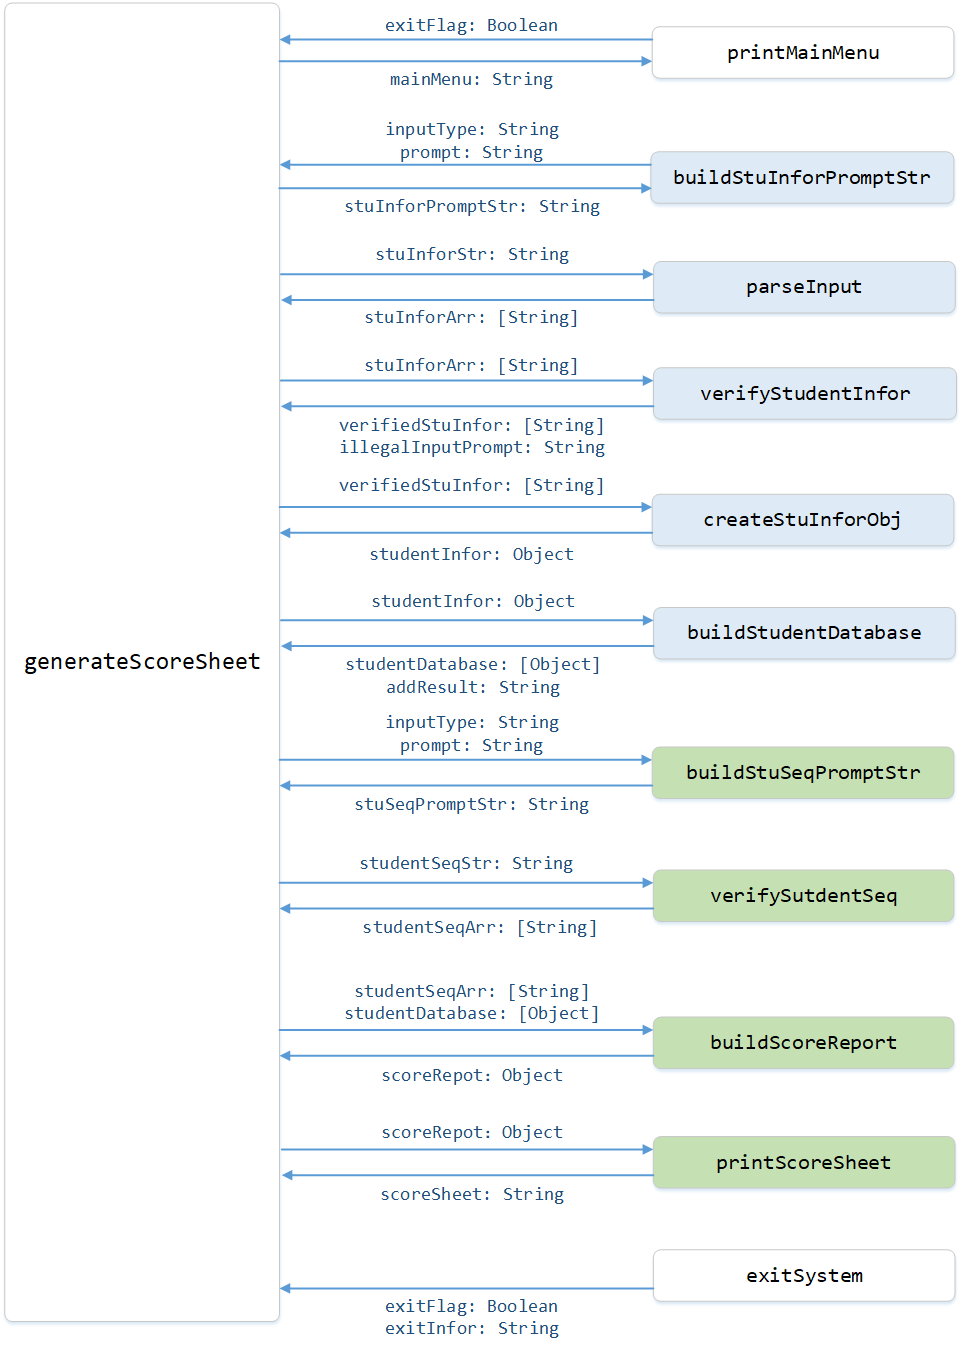
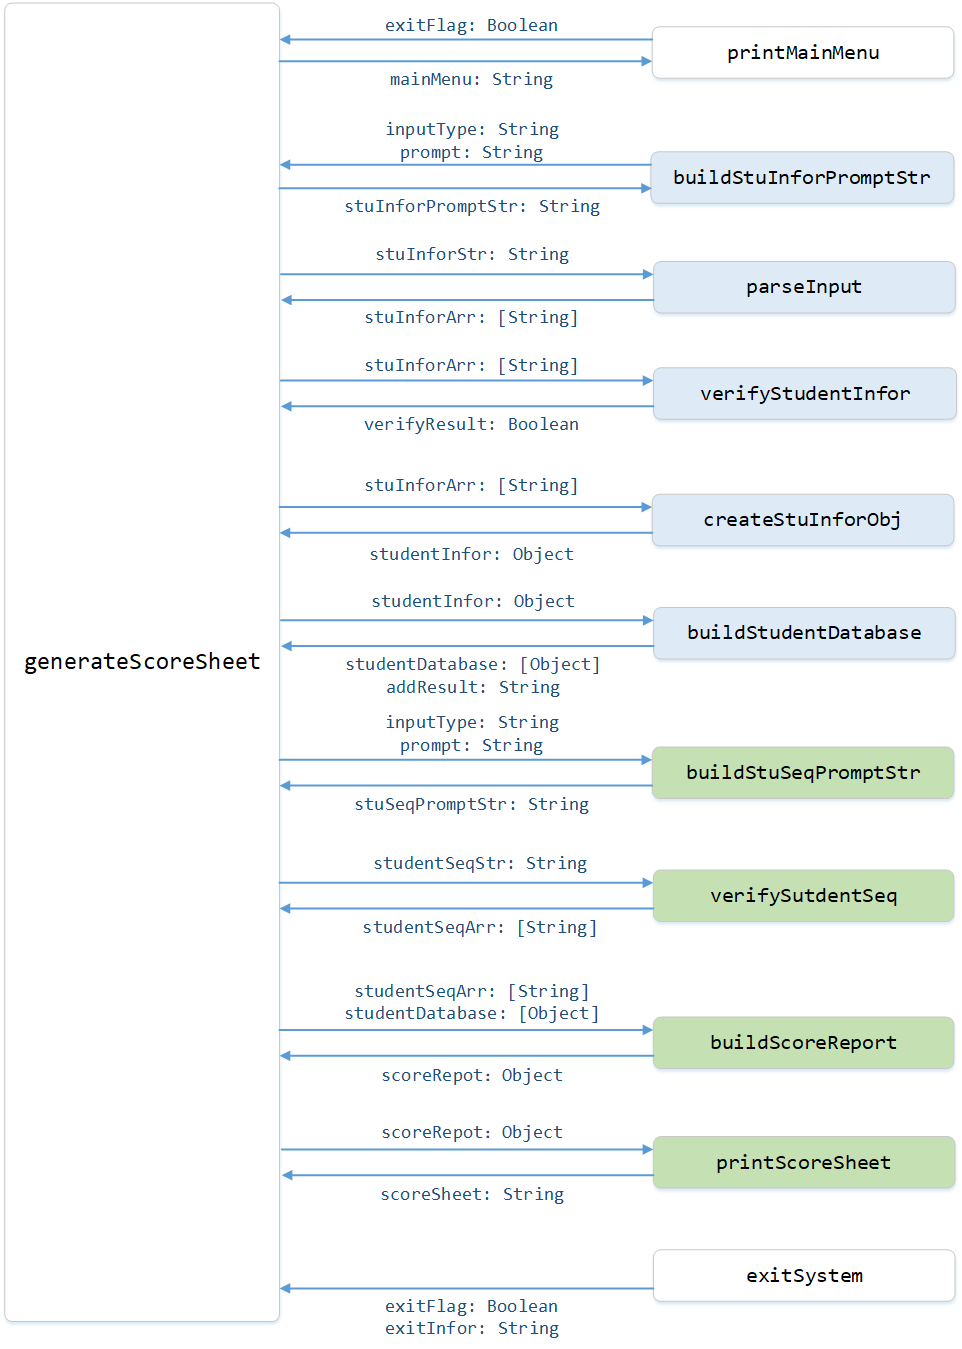
Modify the output of verifyStudentInfor

Changed region(s): [[0.343, 0.3113, 0.6237, 0.3736], [0.3742, 0.6227, 0.6237, 0.6538]]

diff --git a/spec/add_student_infor_spec.js b/spec/add_student_infor_spec.js
@@ -31,43 +31,50 @@ describe("AddStudentInfor", () => {
     const INPUT = "张三，20160101";
     const INFOR_ARR = addStudentInfor.parseInput(INPUT);
     const RESULT = addStudentInfor.verifyStudentInfor(INFOR_ARR);
-    expect(RESULT).toEqual(["张三", "20160101"]);
+    expect(RESULT).toEqual(true);
   });
 
   it("should have a method to verify input", () => {
     const INPUT = "张三，20160101，数学：75，语文：95，英语：80，编程：80";
     const INFOR_ARR = addStudentInfor.parseInput(INPUT);
     const RESULT = addStudentInfor.verifyStudentInfor(INFOR_ARR);
-    expect(RESULT).toEqual(["张三", "20160101", ["数学", "75"], ["语文", "95"], ["英语", "80"], ["编程", "80"]]);
+    expect(RESULT).toEqual(true);
   });
 
   it("should have a method to verify input", () => {
     const INPUT = "张三，张三，数学：七十五，语文：95，英语：80，编程：80";
     const INFOR_ARR = addStudentInfor.parseInput(INPUT);
     const RESULT = addStudentInfor.verifyStudentInfor(INFOR_ARR);
-    expect(RESULT).toEqual("请按正确的格式输入学生信息（格式：姓名，学号，学科：成绩，...），按回车提交：");
+    expect(RESULT).toEqual(false);
   });
 
   it("should have a method to verify input", () => {
     const INPUT = "张三，20160101，：75，语文：95，英语：80，编程：80";
     const INFOR_ARR = addStudentInfor.parseInput(INPUT);
     const RESULT = addStudentInfor.verifyStudentInfor(INFOR_ARR);
-    expect(RESULT).toEqual("请按正确的格式输入学生信息（格式：姓名，学号，学科：成绩，...），按回车提交：");
+    expect(RESULT).toEqual(false);
   });
 
   it("should have a method to verify input", () => {
     const INPUT = "张三，20160101，数学：七十五，语文：95，英语：80，编程：80";
     const INFOR_ARR = addStudentInfor.parseInput(INPUT);
     const RESULT = addStudentInfor.verifyStudentInfor(INFOR_ARR);
-    expect(RESULT).toEqual("请按正确的格式输入学生信息（格式：姓名，学号，学科：成绩，...），按回车提交：");
+    expect(RESULT).toEqual(false);
   });
 
   it("should have a method to create student infor object", () => {
     const INPUT = "张三，20160101，数学：75，语文：95，英语：80，编程：80";
     const INFOR_ARR = addStudentInfor.parseInput(INPUT);
     const VERIFY_RESULT = addStudentInfor.verifyStudentInfor(INFOR_ARR);
-    const RESULT = addStudentInfor.createStuInforObj(VERIFY_RESULT);
-    expect(RESULT).toEqual({
+
+    let result;
+    if (VERIFY_RESULT === false) {
+      addStudentInfor.promptIllegalInput();
+    } else {
+      result = addStudentInfor.createStuInforObj(INFOR_ARR);
+    }
+    
+    expect(result).toEqual({
       name: "张三",
       id: 20160101,
       average: 82.5,
@@ -82,20 +89,32 @@ describe("AddStudentInfor", () => {
   it("should have a method to build student infor data base", () => {
     const STU_1 = "张三，20160101，数学：75，语文：95，英语：80，编程：80";
     const STU_1_INFOR_ARR = addStudentInfor.parseInput(STU_1);
-    const STU_1_VERIFIED_INFOR = addStudentInfor.verifyStudentInfor(STU_1_INFOR_ARR);
-    const STU_1_OBJ = addStudentInfor.createStuInforObj(STU_1_VERIFIED_INFOR);
-    const RESULT_1 = addStudentInfor.buildStudentDatabase(STU_1_OBJ);
+    const STU_1_VERIFIED_RESULT = addStudentInfor.verifyStudentInfor(STU_1_INFOR_ARR);
+
+    let result_1;
+    if (STU_1_VERIFIED_RESULT === false) {
+      addStudentInfor.promptIllegalInput();
+    } else {
+      const STU_1_OBJ = addStudentInfor.createStuInforObj(STU_1_INFOR_ARR);
+      result_1 = addStudentInfor.buildStudentDatabase(STU_1_OBJ);
+    }    
 
     const STU_2 = "李四，20160102，数学：85，语文：80，英语：70，编程：90";
     const STU_2_INFOR_ARR = addStudentInfor.parseInput(STU_2);
-    const STU_2_VERIFIED_INFOR = addStudentInfor.verifyStudentInfor(STU_2_INFOR_ARR);
-    const STU_2_OBJ = addStudentInfor.createStuInforObj(STU_2_VERIFIED_INFOR);
-    const RESULT_2 = addStudentInfor.buildStudentDatabase(STU_2_OBJ);
+    const STU_2_VERIFIED_RESULT = addStudentInfor.verifyStudentInfor(STU_2_INFOR_ARR);
+
+    let result_2;
+    if (STU_2_VERIFIED_RESULT === false) {
+      addStudentInfor.promptIllegalInput();
+    } else {
+      const STU_2_OBJ = addStudentInfor.createStuInforObj(STU_2_INFOR_ARR);
+      result_2 = addStudentInfor.buildStudentDatabase(STU_2_OBJ);
+    }  
 
     const ALLSTUDENTS = addStudentInfor.stuentDatabase;
 
-    expect(RESULT_1).toEqual("学生张三的成绩被添加");
-    expect(RESULT_2).toEqual("学生李四的成绩被添加");
+    expect(result_1).toEqual("学生张三的成绩被添加");
+    expect(result_2).toEqual("学生李四的成绩被添加");
 
     expect(ALLSTUDENTS).toEqual([{
       name: "张三",

diff --git a/src/add_student_infor.js b/src/add_student_infor.js
@@ -20,7 +20,8 @@ class AddStudentInfor extends Build {
     } else {
       verifyResult = false;
     }
-    return verifyResult ? stuInforArr : super.promptIllegalInput();
+    // return verifyResult ? stuInforArr : super.promptIllegalInput();
+    return verifyResult;
   }
 
   parseInput(stuInforStr) {

diff --git a/docs/tasking.md b/docs/tasking.md
@@ -40,8 +40,7 @@
    输入：
    	stuInforArr: [String]
    输出：
-   	verifiedStuInfor: [String]
-   	illegalInputPrompt: String
+   	verifiedResult: Boolean
    ```
 
 5. 创建学生信息
@@ -49,7 +48,7 @@
    ```
    #5 createStuInforObj
    输入：
-   	verifiedStuInfor: [String]
+   	stuInforArr: [String]
    输出：
    	studentInfor: Object
    ```
@@ -117,4 +116,3 @@
     	exitFlag: Boolean
     	exitInfor: String
     ```
-
